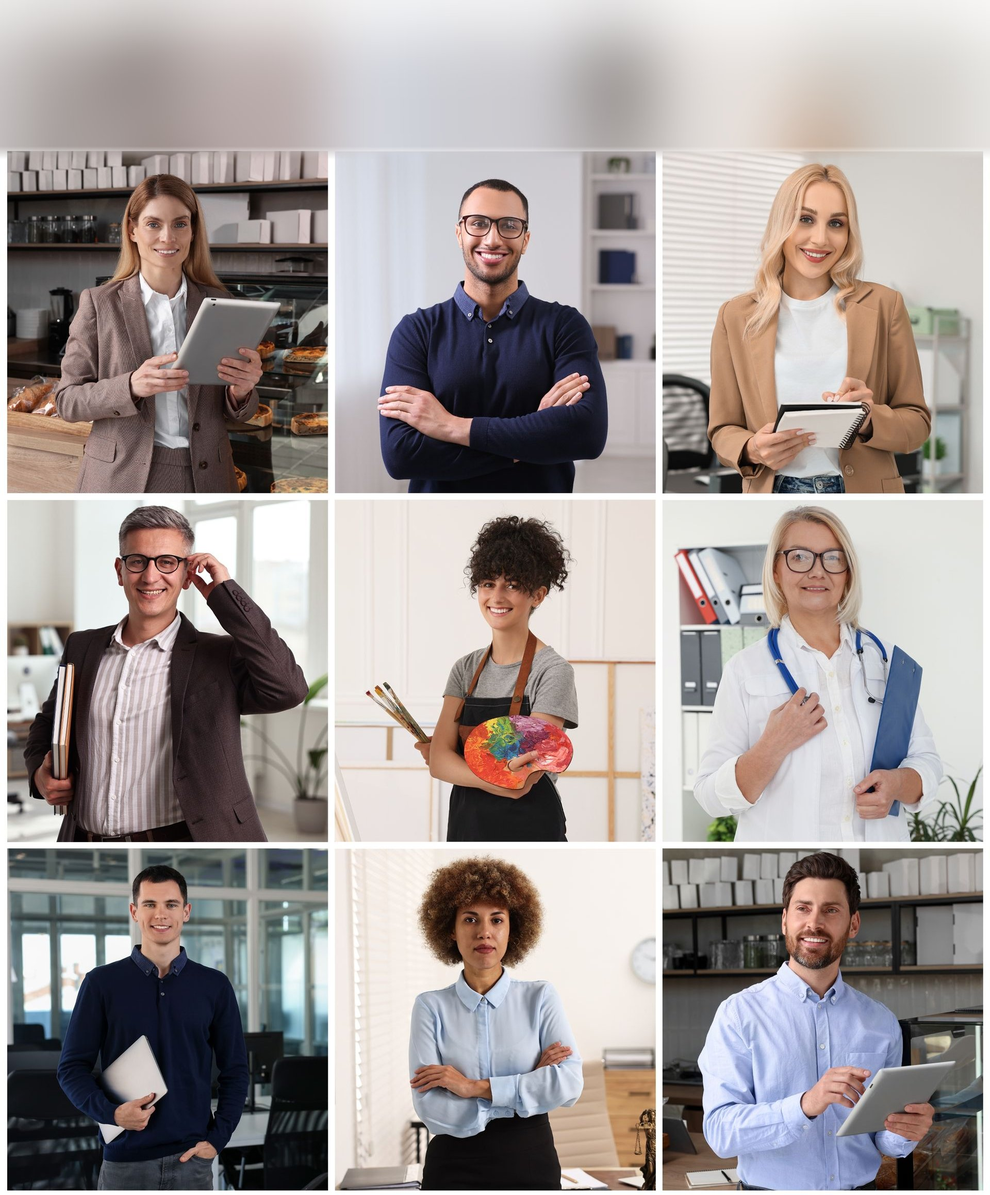
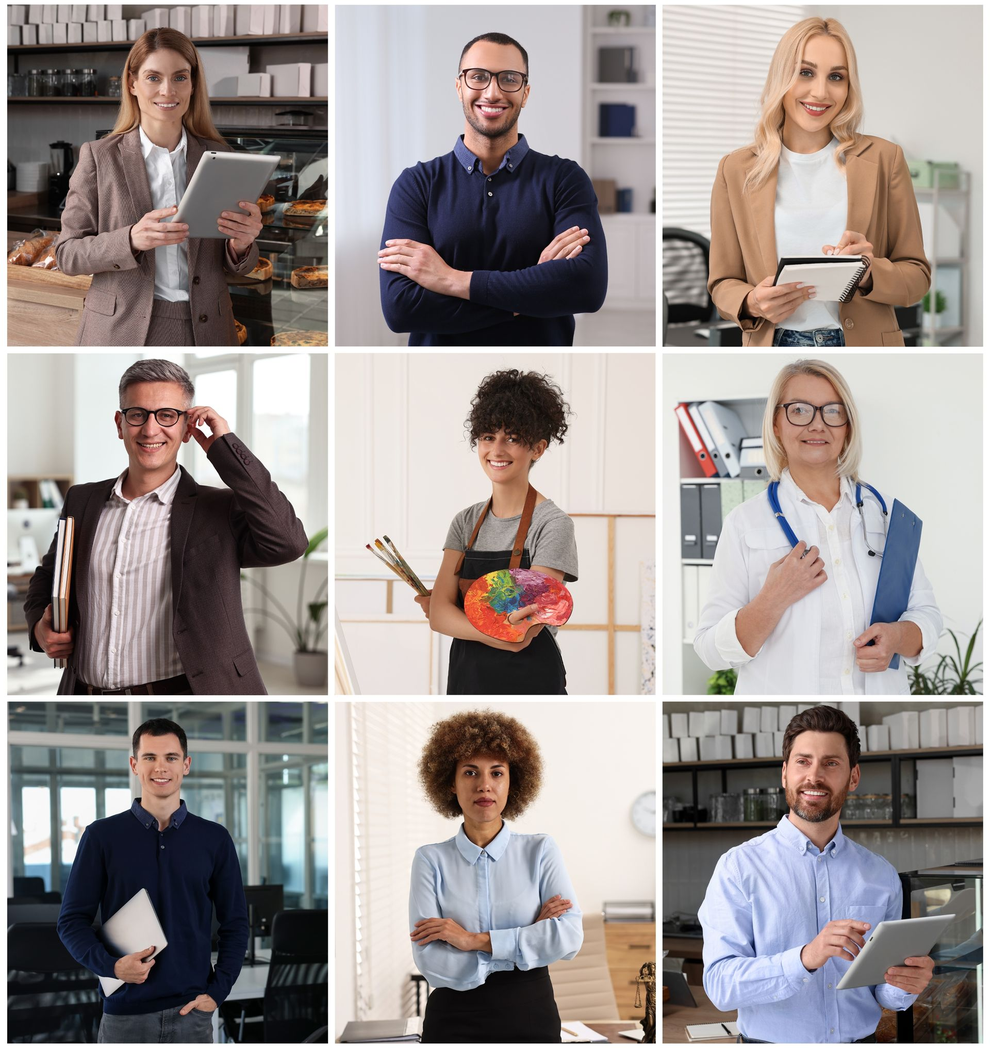
Revert padded photos to originals (blur band visible in uncovered <img> slots); Corporate secondary image -> landscape photo instead of 3x3 grid

diff --git a/specialties/corporate.html b/specialties/corporate.html
@@ -576,7 +576,7 @@
     <!-- SECONDARY IMAGE SECTION -->
     <section class="secondary-image scroll-fade-in">
         <div class="secondary-image-content">
-            <div class="secondary-image-img" style="background-image: url('../images/photos/diverse-professionals.jpg');"></div>
+            <div class="secondary-image-img" style="background-image: url('../images/photos/corporate-handshake.jpg');"></div>
             <div class="secondary-image-text">
                 <h3>Strategic Leadership Across Sectors</h3>
                 <p>Blue Chip Staffing specializes in placing experienced professionals in corporate environments across diverse industries. Whether you need administrative support, financial expertise, or operational leadership, we connect organizations with talent that drives business results.</p>
